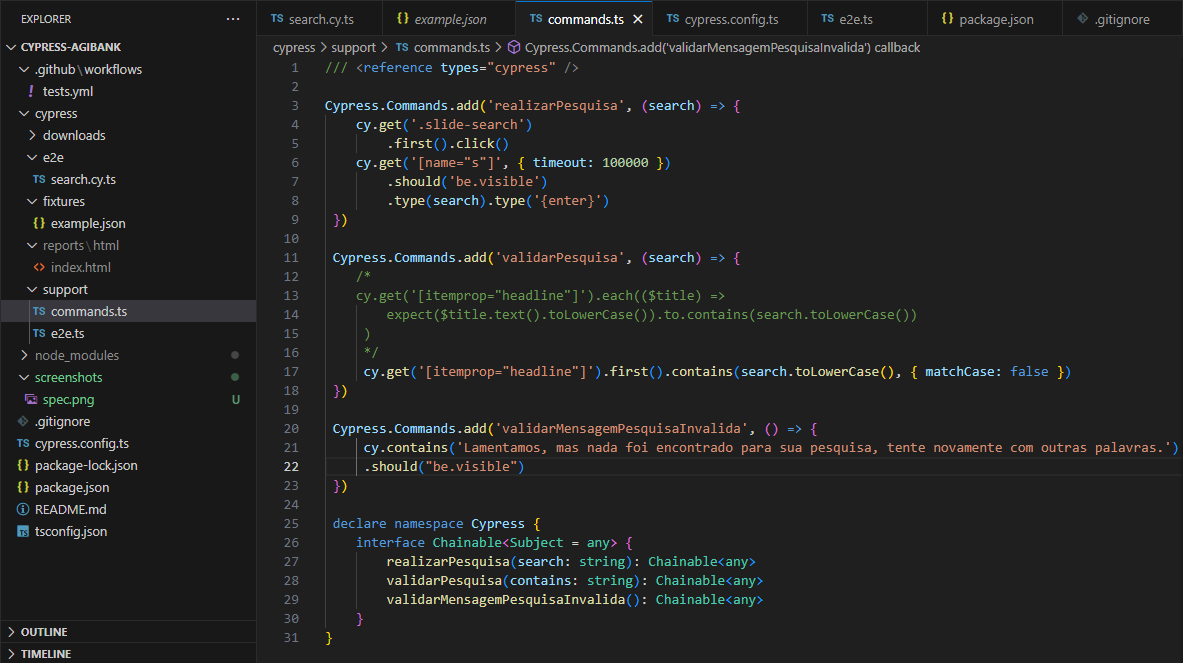
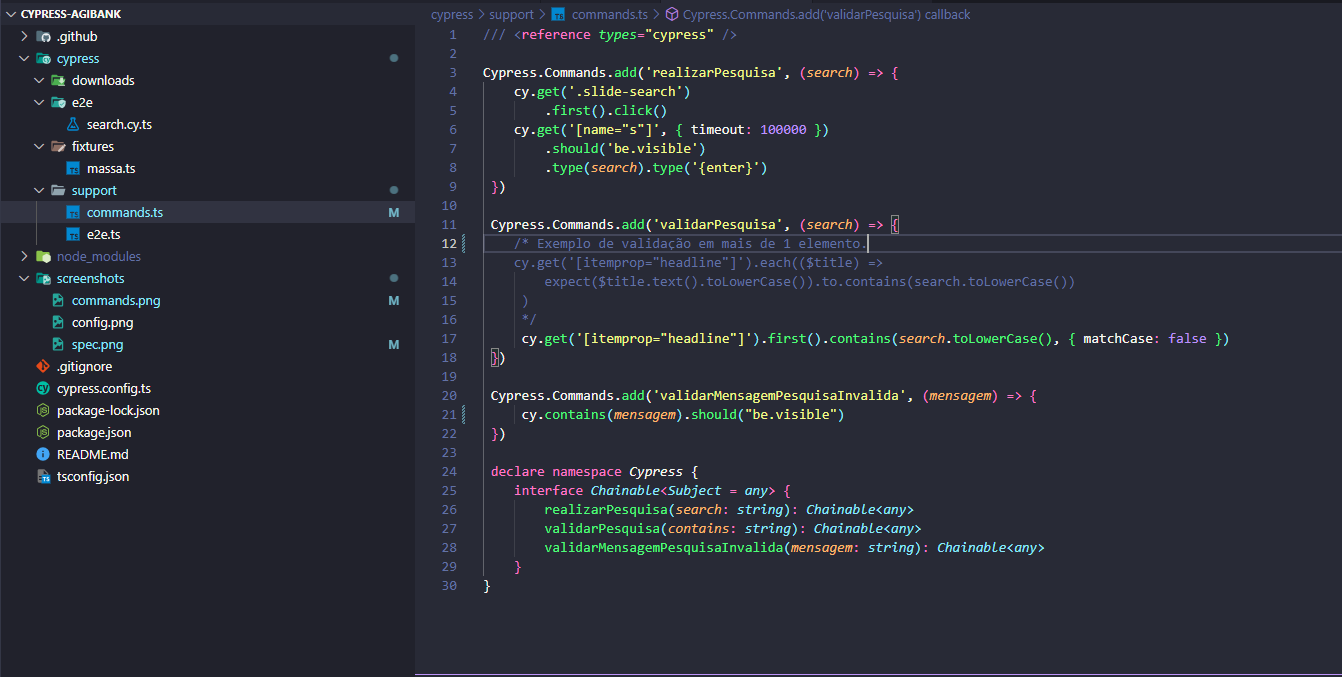
Update README.md

diff --git a/cypress/support/commands.ts b/cypress/support/commands.ts
@@ -18,8 +18,7 @@ Cypress.Commands.add('realizarPesquisa', (search) => {
  })
 
  Cypress.Commands.add('validarMensagemPesquisaInvalida', (mensagem) => {
-     cy.contains(mensagem)//Lamentamos, mas nada foi encontrado para sua pesquisa, tente novamente com outras palavras.
-     .should("be.visible")
+     cy.contains(mensagem).should("be.visible")
  })
 
  declare namespace Cypress {

diff --git a/README.md b/README.md
@@ -31,7 +31,7 @@ npx cypress open
 
 > O projeto contém dois cenários de testes, ambos implementados de maneira limpa e concisa. Utilizei um hook na parte superior da página, com o comando visit (URL já configurada no baseUrl) e a manipulação da viewport.
 
-> Preferi não utilizar strings marretadas para os parâmetros das funções, optando por criar um objeto ou JSON para armazenar essas informações. No entanto, devido ao baixo número de informações, mantive a abordagem inicial.
+> Criei um arquivo para armazenar as massas "massa.ts". Assim eu posso armazenar as minhas massasa de testes de um jeito que eu consiga requisitar com facilidade no meu código. Assim eu poderia criar massas de testes com diversos atributos, informações e funções.
 
 <img src="/screenshots/commands.png">
 
